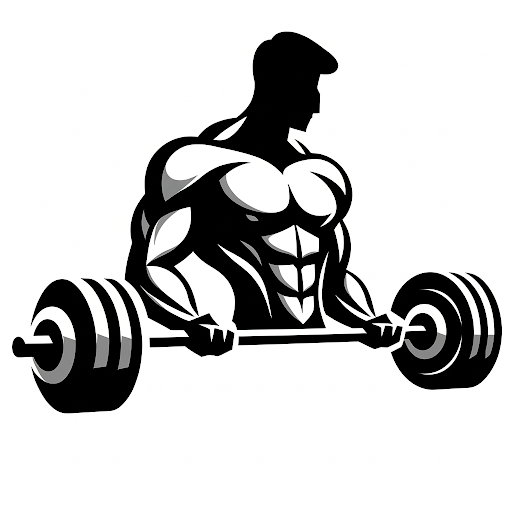
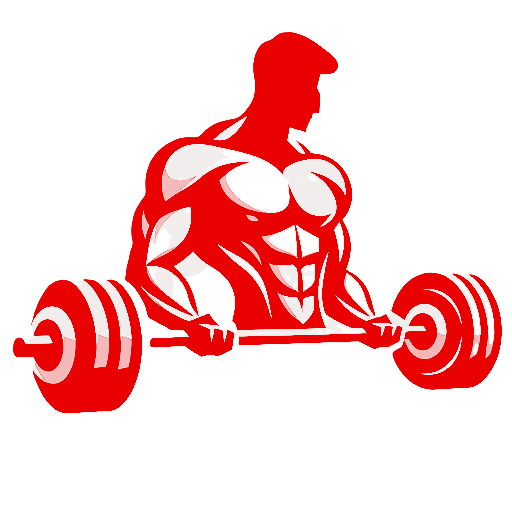
fix: Styles and design

Changed region(s): [[0.0, 0.0625, 1.0, 0.8125]]

diff --git a/src/app/pages/home/home.ts b/src/app/pages/home/home.ts
@@ -1,7 +1,24 @@
-import { Component } from '@angular/core';
+import { Component, inject } from '@angular/core';
+import { Router } from '@angular/router';
+import { DayApi } from '../../api/day/day-api';
 
 @Component({
   imports: [],
   templateUrl: './home.html',
 })
-export class Home {}
+export class Home {
+  private dayApi = inject(DayApi);
+  private router = inject(Router);
+
+  todayNumber() {
+    return new Date().getDay();
+  }
+
+  getTodayName(): string {
+    return this.dayApi.getDayName(this.todayNumber());
+  }
+
+  toRoutine() {
+    this.router.navigate(['/routine-details', this.todayNumber()]);
+  }
+}

diff --git a/src/app/pages/home/home.html b/src/app/pages/home/home.html
@@ -1,7 +1,16 @@
-<div class="flex items-center justify-center min-h-screen pb-16">
+<div
+  class="flex flex-col items-center justify-center min-h-screen pb-24 space-y-6"
+>
   <img
     src="images/home-img.png"
     alt="Home Img"
     class="max-w-xs w-full h-auto object-contain"
   />
+
+  <div
+    class="bg-red-100 text-red-700 font-semibold text-xl px-6 py-3 rounded-lg shadow-md border border-red-300"
+    (click)="toRoutine()"
+  >
+    Hacer rutina de hoy {{ getTodayName() }}
+  </div>
 </div>

diff --git a/src/app/api/day/day-api.ts b/src/app/api/day/day-api.ts
@@ -64,13 +64,13 @@ export class DayApi {
 
   getDayName(id: number): string {
     const dayName = [
-      'Lunes', // 1
-      'Martes', // 2
-      'Miércoles', // 3
-      'Jueves', // 4
-      'Viernes', // 5
-      'Sábado', // 6
-      'Domingo', // 7
+      'Lunes',
+      'Martes',
+      'Miércoles',
+      'Jueves',
+      'Viernes',
+      'Sábado',
+      'Domingo',
     ];
 
     if (id < 1 || id > 7) {

diff --git a/src/app/components/header/header.html b/src/app/components/header/header.html
@@ -1,5 +1,5 @@
 <header
-  class="flex items-center px-6 py-4 bg-gradient-to-r from-red-600 via-red-500 to-red-600 shadow-md relative z-40"
+  class="flex items-center px-6 py-4 bg-gradient-to-r from-red-800 via-red-600 to-red-400 shadow-md relative z-40"
 >
   <button
     class="mr-4 text-white hover:text-red-100 transition-colors duration-200 focus:outline-none cursor-pointer"
